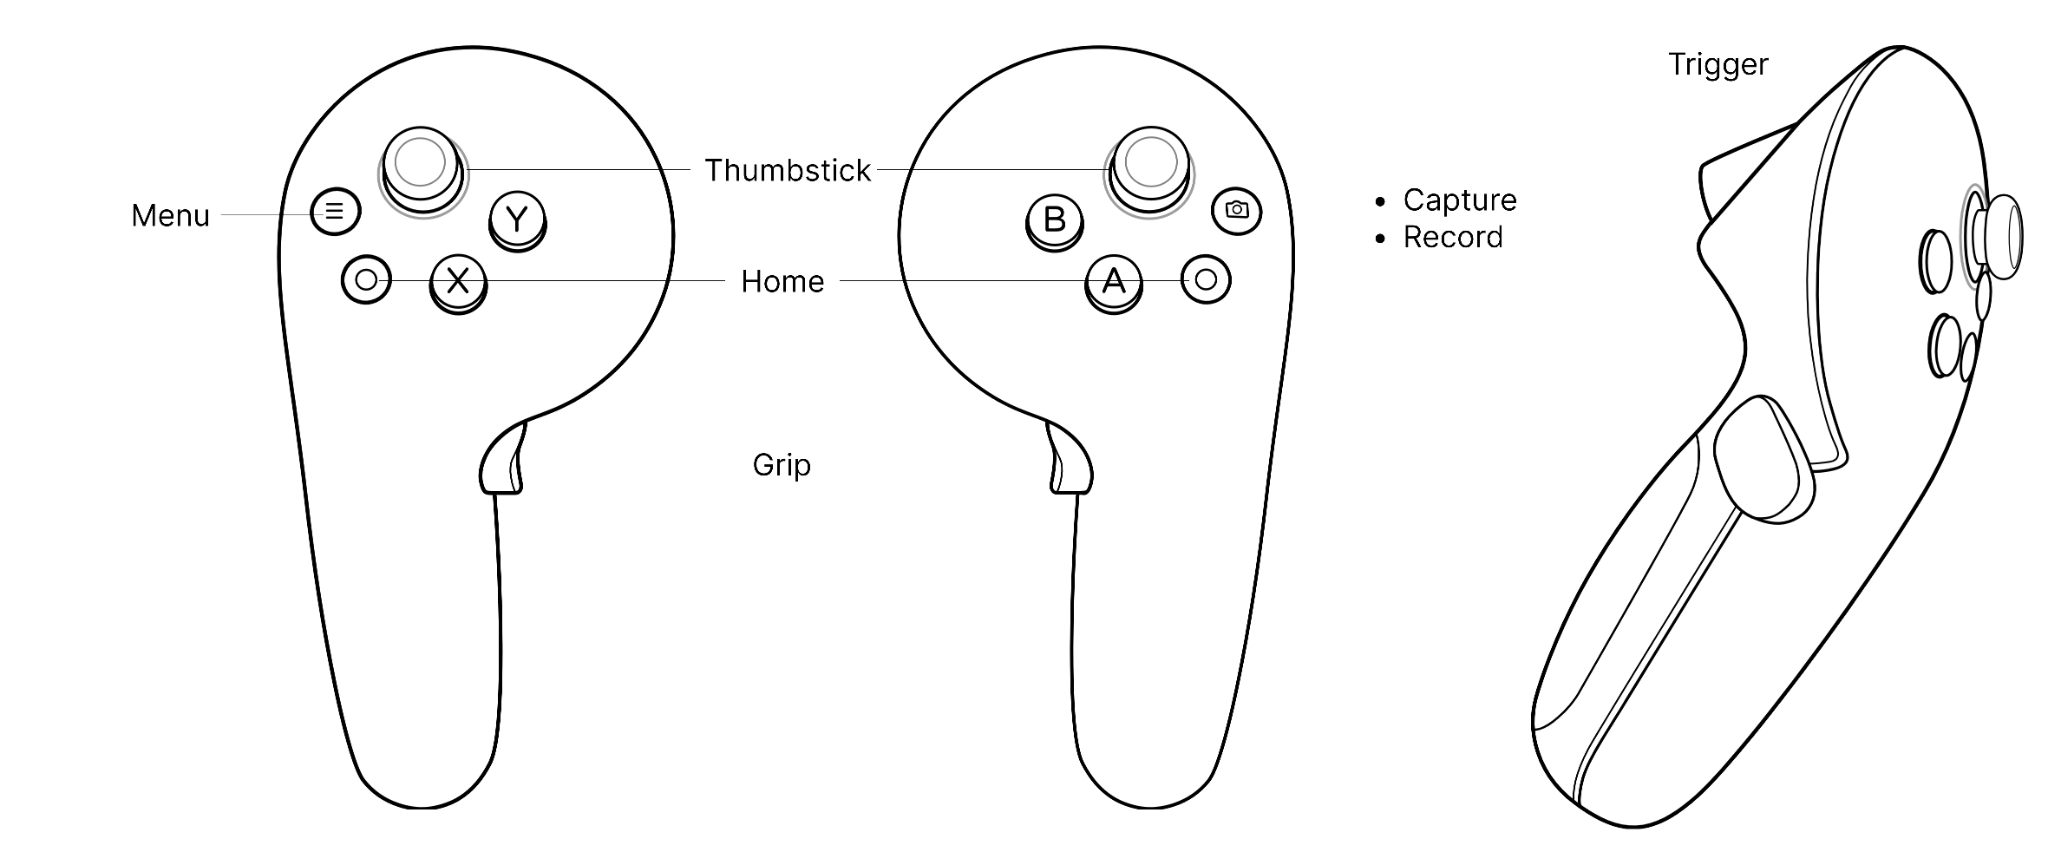
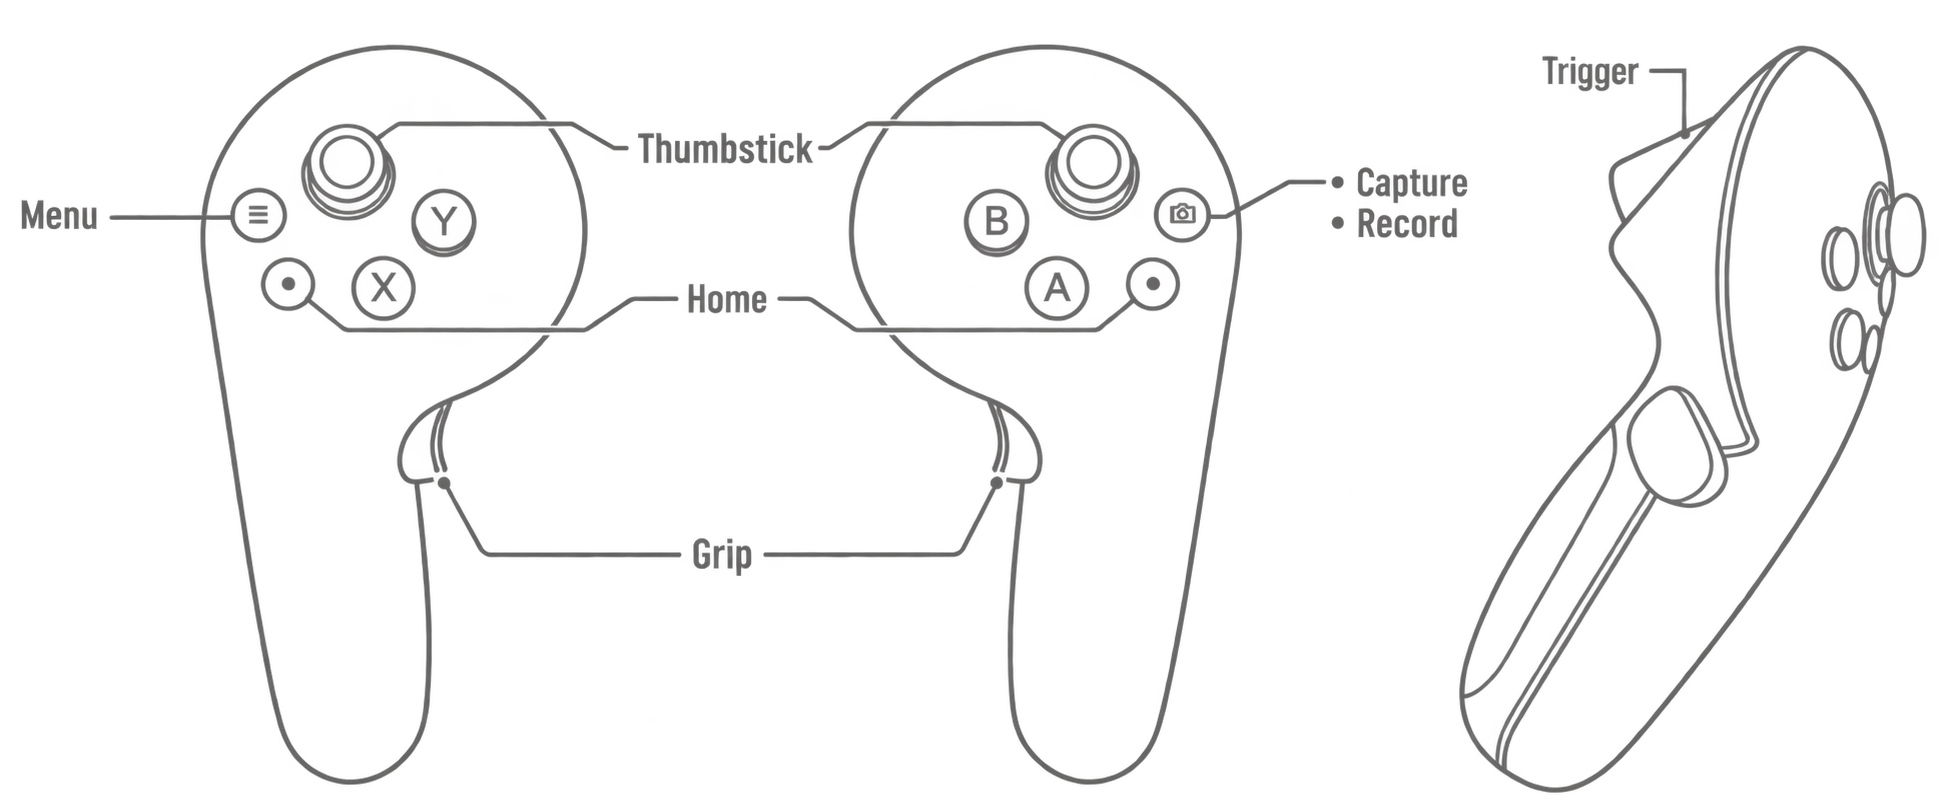
Simplify dual-arm hardware pages and clarify emergency-stop recovery

diff --git a/docs/assets/stylesheets/extra.css b/docs/assets/stylesheets/extra.css
@@ -125,3 +125,9 @@
   color: #555;
   font-size: .7rem;
 }
+
+/* Highlight the installed configuration in the compact family table. */
+.md-typeset .configuration-families tbody tr:first-child td:first-child {
+  background: color-mix(in srgb, var(--md-accent-fg-color) 15%, var(--md-default-bg-color));
+  box-shadow: inset .2rem 0 var(--md-accent-fg-color);
+}

diff --git a/docs/hardware/controller.md b/docs/hardware/controller.md
@@ -10,9 +10,8 @@ This page maps the official handheld and VR controls for the configurations cove
 
 <figure class="controller-layout" markdown>
 
-![Handheld controller layout: shoulder buttons L1/L2 and R1/R2, Select, Start, D-pad, face buttons Y/B/X/A, joystick buttons L3/R3, and Home.](../assets/images/handheld-controller-layout.png)
+![Handheld controller layout: shoulder buttons L1/L2 and R1/R2, Select, Start, D-pad, face buttons triangle/circle/square/cross, joystick buttons L3/R3, and Home.](../assets/images/handheld-controller-layout.png)
 
-<figcaption>Handheld controller button layout. The drawing uses A/B/X/Y labels; the command tables retain the manual’s symbol labels. Confirm the corresponding physical buttons before using a command.</figcaption>
 
 </figure>
 
@@ -22,29 +21,12 @@ The controller has a D-pad, two joysticks with push buttons, face buttons (`△`
 
 | Purpose | Input | Required state | Important behavior |
 | --- | --- | --- | --- |
-| Change mode | `R1` + right face button | Idle | Dual-arm cycles VR teleoperation / developer mode; leg configurations cycle remote-control / developer mode |
-| Return action | `L1` + `×` | Remote-control or high-level developer mode | Dual-arm lowers/returns arms; leg configurations squat/fold; then enters idle |
+| Change mode | `R1` + right face button | Idle | Cycles VR teleoperation / developer mode |
+| Return action | `L1` + `×` | Remote-control or high-level developer mode | Lowers/returns arms, then enters idle |
 | Enter idle immediately | `L1` + `□` | Global | Skips return action; joints enter damping and the robot can drop. Emergency use only |
 | Emergency stop | Push both joystick buttons | Global | Motor drives are cut immediately; the robot can drop |
-| Release controller e-stop | Push right joystick button | E-stop state | Motors are re-enabled and the robot enters damping state |
+| Release controller e-stop | Push right joystick button | E-stop state | Manual release enters damping state; Ubbink recovery requires a [full power cycle](../operation/emergency-stop.md#after-an-e-stop) |
 | Zero calibration | `L1` + `R1` | Idle | Only after controller upgrade or confirmed zero-position loss/drift; follow the full manual procedure |
-
-### Bipedal and wheeled-biped commands
-
-| Purpose | Input | Required state |
-| --- | --- | --- |
-| Enter ready state | `L1` + `○` | Idle or standing |
-| Stand in place | `L1` + `△` | Ready |
-| Move forward/back | Left joystick up/down | Standing |
-| Move left/right | Left joystick left/right | Standing; biped only |
-| Turn in place | Right joystick left/right | Standing |
-| Adjust body height | Hold `R1` + D-pad up/down | Standing |
-| Switch flat/stair mode | Hold `□` for 2 s | Standing; wheeled-biped only |
-| Fall recovery | `L2` + `△` | Fall detected |
-
-!!! warning "Configuration-specific controls"
-
-    Do not use a biped/wheeled-biped command table on a dual-arm configuration, or vice versa. The same combination can have a different prerequisite or outcome.
 
 ## VR teleoperation
 
@@ -73,18 +55,6 @@ The manual identifies the supported EDU teleoperation device as a PICO 4 Ultra. 
 | Start data collection | Right-controller `B` | Active teleoperation |
 | Stop data collection | Right-controller `B` again | Collection active |
 
-### Mobile chassis and lift (where fitted)
-
-| Purpose | Input |
-| --- | --- |
-| Forward/backward | Left joystick forward/back |
-| Ackermann steering | Right joystick left/right in Ackermann mode |
-| Select diagonal mode | Hold right joystick for 1 s |
-| Select Ackermann mode | Hold left joystick for 1 s |
-| Parking state | Hold left-controller grip and right-controller joystick for 1 s |
-| VR emergency stop | Push both VR joysticks |
-| Raise/lower lift | Hold right grip and move left joystick forward/back |
-
 ## Preparing a VR session
 
 1. Confirm the exact robot configuration and the supported headset/application version.
@@ -101,16 +71,6 @@ The manual identifies the supported EDU teleoperation device as a PICO 4 Ultra. 
 ## Local motor-release observation
 
 The September route tests found that normal software could bring the arms to rest but could not release the motors. The manual action was L1+X. This specific observation does not verify every button mapping in the tables above. [Client safety](../deployment/client-safety.md#motor-release-remains-manual).
-
-## Ubbink verification record
-
-| Item | Value |
-| --- | --- |
-| Robot configuration tested | Specific dual-arm route/release observations recorded; complete controls table not verified |
-| Robot firmware | Not recorded |
-| Handheld controller version | Not recorded |
-| VR headset/app version | Not recorded |
-| Verified by | Not reviewed |
 
 ## Source
 

diff --git a/docs/hardware/robot-overview.md b/docs/hardware/robot-overview.md
@@ -15,18 +15,18 @@
 
 The TRON 2 is described by LimX as a modular research platform. The official material separates an EDU edition from a standard edition and shows multiple physical configurations. Never assume a procedure or specification applies to every configuration.
 
-!!! info "Version dependent"
-
-    Identify the installed modules and the robot-model identifier before selecting software, model files, limits, or controller mappings.
-
 ## Configuration families
+
+<div class="configuration-families" markdown>
 
 | Family | What the source describes | Main wiki topics |
 | --- | --- | --- |
-| **Dual-arm — Ubbink configuration** | Two seven-axis arms; optional grippers or dexterous hands; VR teleoperation in the EDU material | [Controller & VR](controller.md), [SDK](../software/index.md) |
+| **Dual-arm — Ubbink robot (`DACH_TRON2A`)** | Two seven-axis arms; optional grippers or dexterous hands; VR teleoperation in the EDU material | [Controller & VR](controller.md), [SDK](../software/index.md) |
 | Bipedal | Two five-axis legs and handheld remote operation | [Controller](controller.md), [Operation](../operation/index.md) |
 | Wheeled-biped | Leg configuration with wheels and a dedicated stair/flat-ground mode | [Controller](controller.md), [Operation](../operation/index.md) |
 | Mobile dual-arm | Dual-arm platform combined with a mobile chassis and lift | VR/mobile-chassis controls are configuration-specific |
+
+</div>
 
 ## Public robot-description models
 
@@ -35,20 +35,6 @@ The official public repository currently organizes assets by variant folder:
 `DA_TRON2A`, `DACH_TRON2A`, `WF_TRON2A`, `SF_TRON2A`, `WFYG_TRON2A`, and `SFYG_TRON2A`.
 
 Each variant can contain `urdf/`, `xacro/`, `xml/`, `meshes/`, and, for some variants, `usd/`. The repository documents a floating base, ROS-style axes unless an integration states otherwise, and variant-dependent sensor geometry.
-
-## Identify the Ubbink robot
-
-The Ubbink robot is the **dual-arm configuration**. Its model is **`DACH_TRON2A`**. Select this variant when choosing robot-description assets.
-
-Record the remaining details as they become available:
-
-| Item | Ubbink value |
-| --- | --- |
-| Robot model identifier | `DACH_TRON2A` |
-| Serial-number evidence location | Not recorded; do not publish the serial number |
-| Installed configuration/modules | Dual-arm; detailed module inventory not recorded |
-| Hardware revision | Not recorded |
-| Firmware/software versions | Not recorded |
 
 ## Sources
 

diff --git a/docs/operation/emergency-stop.md b/docs/operation/emergency-stop.md
@@ -4,10 +4,11 @@
 
     Both the physical and controller emergency-stop paths cut motor-drive power. Support/clear the robot as far as safely possible and keep people out of the fall and pinch zones.
 
-## Emergency-stop paths in the source
+## Emergency-stop triggers
 
 | Method | Trigger | Indication/behavior |
 | --- | --- | --- |
+| External Emergency-stop button | Push the button | Motor power cut; body light flashes yellow |
 | Physical robot e-stop | Operate the body emergency-stop control | Motor power cut; body light flashes yellow |
 | Handheld controller | Push both joystick buttons | Motor power cut immediately; battery and indicators remain powered |
 | VR controllers | Push both VR joysticks | Stops the robot/mobile chassis in VR operation |
@@ -19,7 +20,10 @@
 3. Inspect the robot and load for damage, displacement, or trapped energy.
 4. Release the physical e-stop only when authorized.
 5. The cited handheld release command is the right joystick button; the robot enters damping state. Be ready for unpowered/compliant motion.
-6. Re-run startup/verification checks before resuming work.
+6. **Perform a full robot power cycle**: shut the robot down completely, then follow [Startup](startup.md). Releasing the E-stop alone does not clear the Ubbink robot’s error state; the body light remains red until a full power cycle.
+7. Re-run startup checks and confirm the red error indication is cleared before resuming work.
+
+The red-light error state and full power-cycle requirement are Ubbink hardware observations supplied in this documentation review.
 
 ## Source
 

diff --git a/docs/hardware/sensors.md b/docs/hardware/sensors.md
@@ -1,4 +1,4 @@
-# Sensors
+# Cameras and sensors
 
 Sensor availability depends on configuration and on whether the source describes physical hardware or only model geometry.
 
@@ -14,12 +14,6 @@ Sensor availability depends on configuration and on whether the source describes
 !!! warning "Model is not proof of installed hardware"
 
     A URDF link or mesh does not prove that a sensor is installed, powered, calibrated, or supported by a driver on the Ubbink robot.
-
-## Ubbink inventory
-
-| Location | Device/model | Serial recorded elsewhere | Driver/version | Verified |
-| --- | --- | --- | --- | --- |
-| Not recorded | Not recorded | No | Not recorded | No |
 
 ## Sources
 

diff --git a/docs/hardware/battery-and-charger.md b/docs/hardware/battery-and-charger.md
@@ -26,7 +26,7 @@
 
 ## Remote controller
 
-The manual describes charging the handheld controller from a 5 V / 1 A supply. A steady green controller indicator means charging is active or complete; no light means it is not charging. This indication does not distinguish active charging from completion.
+The handheld controller is charged from a **5 V / 1 A supply**. A steady green controller indicator means charging is active or complete; no light means it is not charging. This indication does not distinguish active charging from completion.
 
 ## Source
 

diff --git a/docs/getting-started/safety.md b/docs/getting-started/safety.md
@@ -10,7 +10,7 @@
 2. Make sure the operating area is clear of people, obstacles, and loose objects.
 3. Check the [battery and charger](../hardware/battery-and-charger.md) and connectors for damage or abnormal condition.
 4. Learn the [controller and emergency-stop controls](../hardware/controller.md) before enabling motion.
-5. Make sure the external E-stop button is connected and within reach.
+5. Make sure the external [emergency stop](../operation/emergency-stop.md) button is connected and within reach.
 
 ## Stop versus emergency stop
 
